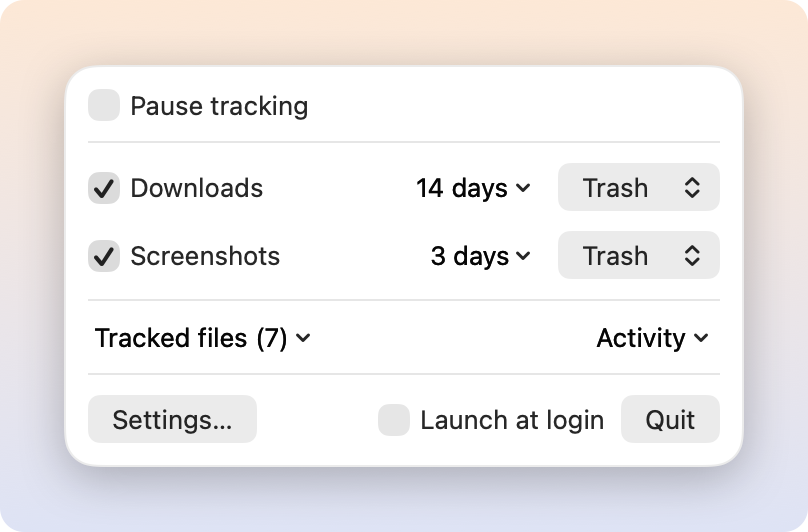
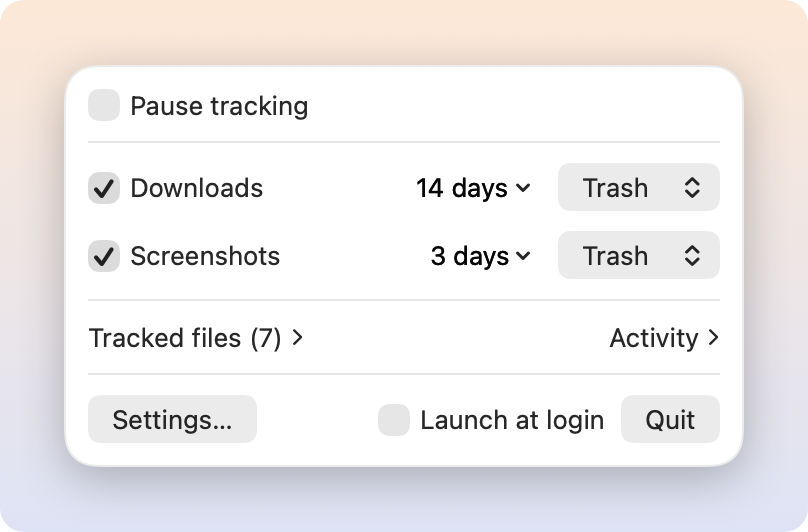
feat(menu): tracked files and activity as in-panel pages with previews, row buttons and restore

Changed region(s): [[0.0928, 0.6015, 0.3713, 0.6617], [0.7426, 0.6015, 0.8973, 0.6617]]

diff --git a/Sources/Burndown/Menu/MenuContent.swift b/Sources/Burndown/Menu/MenuContent.swift
@@ -4,6 +4,14 @@ import SwiftUI
 struct MenuContent: View {
     @Bindable var model: AppModel
     @Environment(\.openSettings) private var openSettings
+    @State private var page: Page
+
+    enum Page { case main, tracked, activity }
+
+    init(model: AppModel, page: Page = .main) {
+        self.model = model
+        _page = State(initialValue: page)
+    }
 
     private static let presets: [(String, Lifetime)] = [
         ("1 hour", .hours(1)), ("12 hours", .hours(12)), ("1 day", .days(1)), ("3 days", .days(3)),
@@ -12,6 +20,21 @@ struct MenuContent: View {
 
     var body: some View {
         VStack(alignment: .leading, spacing: 10) {
+            switch page {
+            case .main: mainPage
+            case .tracked: listPage("Tracked files", count: model.state.items.count, trackedRows)
+            case .activity: listPage("Activity", count: min(model.state.log.count, 50), activityRows)
+            }
+        }
+        .padding(12)
+        .frame(width: 340)
+        .onDisappear { page = .main }
+    }
+
+    // MARK: Main page
+
+    private var mainPage: some View {
+        Group {
             Toggle("Pause tracking", isOn: $model.settings.paused)
 
             Divider()
@@ -20,16 +43,9 @@ struct MenuContent: View {
 
             Divider()
             HStack {
-                trackedList
+                pageLink("Tracked files (\(model.state.items.count))", .tracked)
                 Spacer()
-                Menu("Activity") {
-                    if model.state.log.isEmpty { Text("Nothing expired yet") }
-                    ForEach(model.state.log.prefix(15)) { e in
-                        activityRow(e)
-                    }
-                }
-                .menuStyle(.borderlessButton)
-                .fixedSize()
+                pageLink("Activity", .activity)
             }
 
             Divider()
@@ -43,8 +59,16 @@ struct MenuContent: View {
                 Button("Quit") { NSApp.terminate(nil) }
             }
         }
-        .padding(12)
-        .frame(width: 340)
+    }
+
+    private func pageLink(_ title: String, _ target: Page) -> some View {
+        Button { page = target } label: {
+            HStack(spacing: 3) {
+                Text(title)
+                Image(systemName: "chevron.right").font(.system(size: 9, weight: .semibold))
+            }
+        }
+        .buttonStyle(.plain)
     }
 
     private func scopeRow(_ title: String, _ d: Binding<ScopeDefaults>) -> some View {
@@ -67,46 +91,84 @@ struct MenuContent: View {
         }
     }
 
-    /// Tracked files live in a submenu so the popover stays short; each file has its own actions submenu.
-    private var trackedList: some View {
-        let items = model.state.items.sorted { ($0.due ?? .distantFuture) < ($1.due ?? .distantFuture) }
-        let shown = items.prefix(25)
-        return Menu("Tracked files (\(items.count))") {
-            if items.isEmpty { Text("No files tracked") }
-            ForEach(shown) { item in
-                Menu {
-                    Button("Keep") { model.keep(item.id) }
-                    Button("Expire now") { model.expireNow(item.id) }
-                    Button("Reveal in Finder") { model.reveal(item.id) }
-                } label: {
-                    Label { Text("\(item.name)  \(Self.when(item))") } icon: {
-                        Image(nsImage: FileIcon.small(path: item.path))
+    // MARK: List pages
+
+    private func listPage(_ title: String, count: Int, _ rows: some View) -> some View {
+        Group {
+            HStack {
+                Button { page = .main } label: {
+                    HStack(spacing: 3) {
+                        Image(systemName: "chevron.left").font(.system(size: 9, weight: .semibold))
+                        Text("Back")
                     }
                 }
+                .buttonStyle(.plain)
+                Spacer()
+                Text(title).font(.headline)
+                Spacer()
+                Text("Back").hidden() // keeps the title centred
             }
-            if items.count > shown.count { Text("+ \(items.count - shown.count) more") }
+            Divider()
+            ScrollView {
+                LazyVStack(alignment: .leading, spacing: 8) { rows }
+            }
+            // A ScrollView has no natural height, so size it to its rows up to a cap.
+            .frame(height: min(max(CGFloat(count), 1) * 36, 320))
         }
-        .menuStyle(.borderlessButton)
-        .fixedSize()
     }
 
-    @ViewBuilder private func activityRow(_ e: LogEntry) -> some View {
-        let label = Label {
-            Text("\(e.name) - \(e.restored == true ? "put back" : e.action.pastTense) "
-                + e.date.formatted(.relative(presentation: .named)))
-        } icon: {
-            Image(nsImage: FileIcon.small(path: e.originalPath ?? e.name))
+    @ViewBuilder private var trackedRows: some View {
+        let items = model.state.items.sorted { ($0.due ?? .distantFuture) < ($1.due ?? .distantFuture) }
+        if items.isEmpty { Text("No files tracked").foregroundStyle(.secondary) }
+        ForEach(items) { item in
+            HStack(spacing: 8) {
+                FileThumb(previewPath: item.path, iconPath: item.path)
+                VStack(alignment: .leading, spacing: 0) {
+                    Text(item.name).lineLimit(1).truncationMode(.middle)
+                    Text(Self.when(item)).font(.caption).foregroundStyle(.secondary)
+                }
+                Spacer(minLength: 4)
+                iconButton("checkmark.circle", "Keep") { model.keep(item.id) }
+                iconButton("flame", "Expire now") { model.expireNow(item.id) }
+                iconButton("magnifyingglass", "Reveal in Finder") { model.reveal(item.id) }
+            }
         }
-        if e.canRestore {
-            Menu { Button("Put back") { model.putBack(e.id) } } label: { label }
-        } else {
-            label
+    }
+
+    @ViewBuilder private var activityRows: some View {
+        if model.state.log.isEmpty { Text("Nothing has expired yet").foregroundStyle(.secondary) }
+        ForEach(model.state.log.prefix(50)) { e in
+            HStack(spacing: 8) {
+                FileThumb(previewPath: e.restored == true ? e.originalPath : e.trashedPath,
+                          iconPath: e.originalPath ?? e.name)
+                VStack(alignment: .leading, spacing: 0) {
+                    Text(e.name).lineLimit(1).truncationMode(.middle)
+                    Text("\(e.restored == true ? "put back" : e.action.pastTense) "
+                        + e.date.formatted(.relative(presentation: .named)))
+                        .font(.caption).foregroundStyle(.secondary)
+                }
+                Spacer(minLength: 4)
+                if e.canRestore {
+                    iconButton("arrow.uturn.backward.circle", "Restore from Trash") { model.putBack(e.id) }
+                }
+            }
         }
+    }
+
+    private func iconButton(_ symbol: String, _ help: String, _ action: @escaping () -> Void) -> some View {
+        Button(action: action) {
+            Image(systemName: symbol)
+                .font(.system(size: 14))
+                .frame(width: 22, height: 22)
+                .contentShape(Rectangle())
+        }
+        .buttonStyle(.plain)
+        .help(help)
     }
 
     private static func when(_ item: TrackedItem) -> String {
-        guard let due = item.due else { return "(no expiry)" }
-        let verb = item.action == .wipe ? "wipe" : "trash"
-        return "(\(verb) \(due.formatted(.relative(presentation: .named))))"
+        guard let due = item.due else { return "No expiry" }
+        let verb = item.action == .wipe ? "Wipe" : "Trash"
+        return "\(verb) \(due.formatted(.relative(presentation: .named)))"
     }
 }

diff --git a/Sources/Burndown/Menu/FileThumb.swift b/Sources/Burndown/Menu/FileThumb.swift
@@ -1,0 +1,34 @@
+import AppKit
+import SwiftUI
+
+/// A row thumbnail: the real image preview for images and PDFs, else the Finder icon for the file or its type.
+struct FileThumb: View {
+    /// Where to look for a preview (the file now, or its copy in the Trash).
+    let previewPath: String?
+    /// Used for the Finder icon when there is no preview, even if the file is gone.
+    let iconPath: String
+    var size: CGFloat = 28
+
+    @State private var image: NSImage?
+
+    var body: some View {
+        Group {
+            if let image {
+                Image(nsImage: image)
+                    .resizable()
+                    .scaledToFit()
+                    .clipShape(RoundedRectangle(cornerRadius: 4))
+                    .overlay(RoundedRectangle(cornerRadius: 4).strokeBorder(.separator))
+            } else {
+                Image(nsImage: FileIcon.small(path: iconPath))
+                    .resizable()
+                    .scaledToFit()
+            }
+        }
+        .frame(width: size, height: size)
+        .task(id: previewPath) {
+            guard let previewPath else { return }
+            image = await ImagePreview.thumbnail(of: URL(fileURLWithPath: previewPath), maxPixel: Int(size * 2))
+        }
+    }
+}

diff --git a/Sources/Burndown/Toast/ImagePreview.swift b/Sources/Burndown/Toast/ImagePreview.swift
@@ -1,11 +1,16 @@
 import AppKit
 import ImageIO
 import PDFKit
+import UniformTypeIdentifiers
 
 enum ImagePreview {
     /// Small decoded thumbnail of an image or the first page of a PDF, made in memory. Nil for anything else.
     static func thumbnail(of url: URL, maxPixel: Int = 96) async -> NSImage? {
-        await Task.detached(priority: .utility) {
+        // Only open files that can have a preview, so a big archive or video is never read for nothing.
+        guard let type = UTType(filenameExtension: url.pathExtension.lowercased()),
+              type.conforms(to: .image) || type.conforms(to: .pdf)
+        else { return nil }
+        return await Task.detached(priority: .utility) {
             if url.pathExtension.lowercased() == "pdf" {
                 // Keep the document alive while the page renders; a page alone is not enough.
                 guard let doc = PDFDocument(url: url), let page = doc.page(at: 0) else { return nil }

diff --git a/Sources/Burndown/Menu/FileIcon.swift b/Sources/Burndown/Menu/FileIcon.swift
@@ -3,7 +3,7 @@ import UniformTypeIdentifiers
 
 enum FileIcon {
     /// 16 pt Finder icon for a menu item: the file's own icon if it still exists, else the icon for its type.
-    static func small(path: String) -> NSImage {
+    static func small(path: String, size: CGFloat = 16) -> NSImage {
         let ws = NSWorkspace.shared
         let icon: NSImage
         if FileManager.default.fileExists(atPath: path) {
@@ -13,7 +13,7 @@ enum FileIcon {
             icon = ws.icon(for: type)
         }
         let small = (icon.copy() as? NSImage) ?? icon
-        small.size = NSSize(width: 16, height: 16)
+        small.size = NSSize(width: size, height: size)
         return small
     }
 }

diff --git a/Sources/Burndown/DocsRender.swift b/Sources/Burndown/DocsRender.swift
@@ -194,6 +194,8 @@ enum DocsRender {
         try menuBarIcons(out)
         try toasts(out)
         try snapshot(popover(MenuContent(model: model)), name: "menu", into: out)
+        try snapshot(popover(MenuContent(model: model, page: .tracked)), name: "menu-tracked", into: out)
+        try snapshot(popover(MenuContent(model: model, page: .activity)), name: "menu-activity", into: out)
         try settings(model: model, into: out)
     }
 

diff --git a/README.md b/README.md
@@ -94,7 +94,19 @@ settings: Track screenshots, Expire after 3 days, When expired Move to Trash,
 Show a toast for each new file, Show it as soon as the thumbnail appears">
 
 <details>
-<summary>More: General, Downloads and Activity tabs, menu bar icons</summary>
+<summary>More: menu pages, General, Downloads and Activity tabs, icons</summary>
+
+Tracked files: a preview for images and PDFs, otherwise the Finder icon, and
+Keep, Expire now and Reveal in Finder as buttons on each row.
+
+<img src="docs/images/menu-tracked.png" width="404" alt="Tracked files page:
+seven files with their expiry times and Keep, Expire now and Reveal buttons">
+
+Activity: what expired, with a button to restore anything that went to the
+Trash.
+
+<img src="docs/images/menu-activity.png" width="404" alt="Activity page: seven
+expired files, each trashed one with a restore button">
 
 <img src="docs/images/settings-general.png" width="560" alt="General
 settings: Launch at login, Pause tracking, and toast options for auto-dismiss
